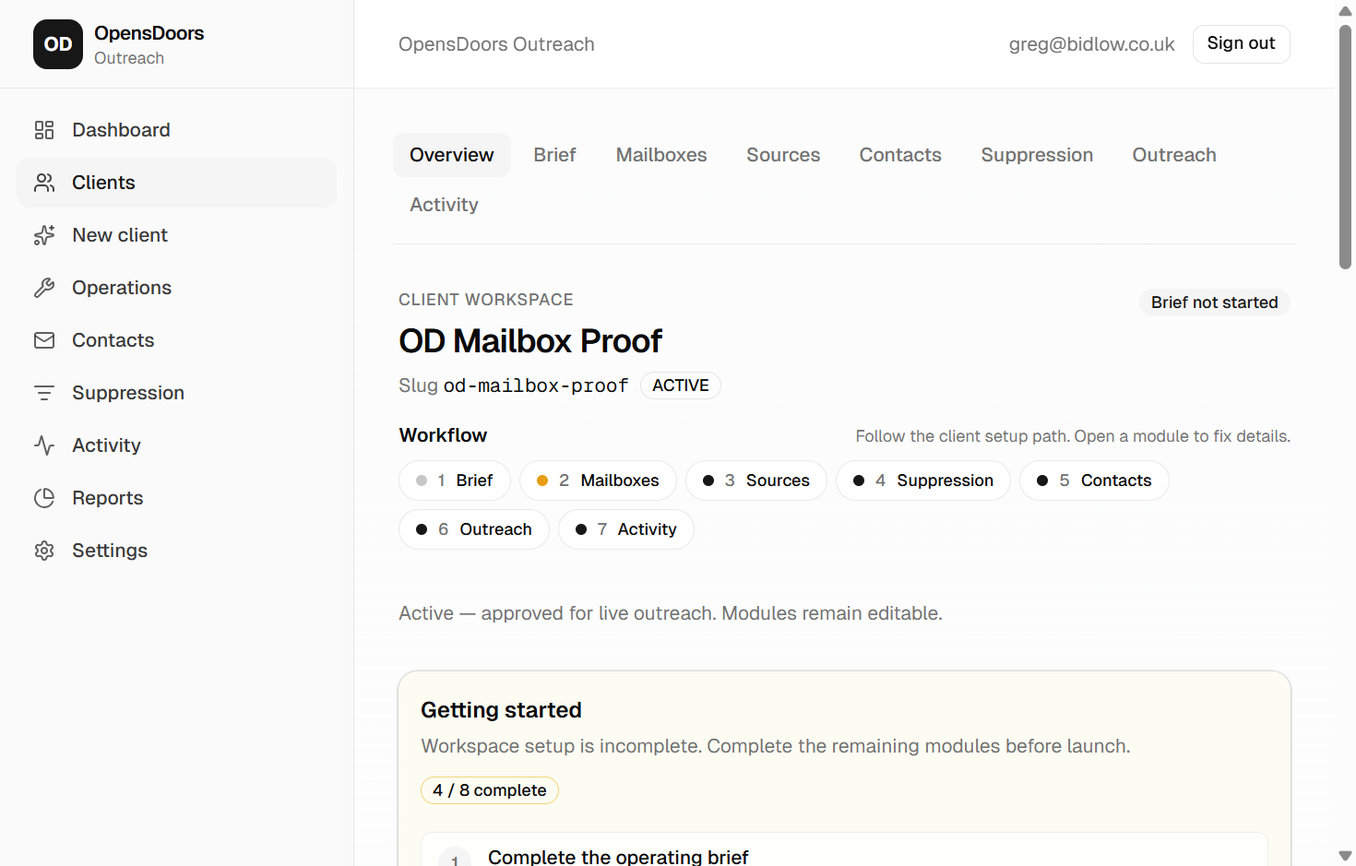
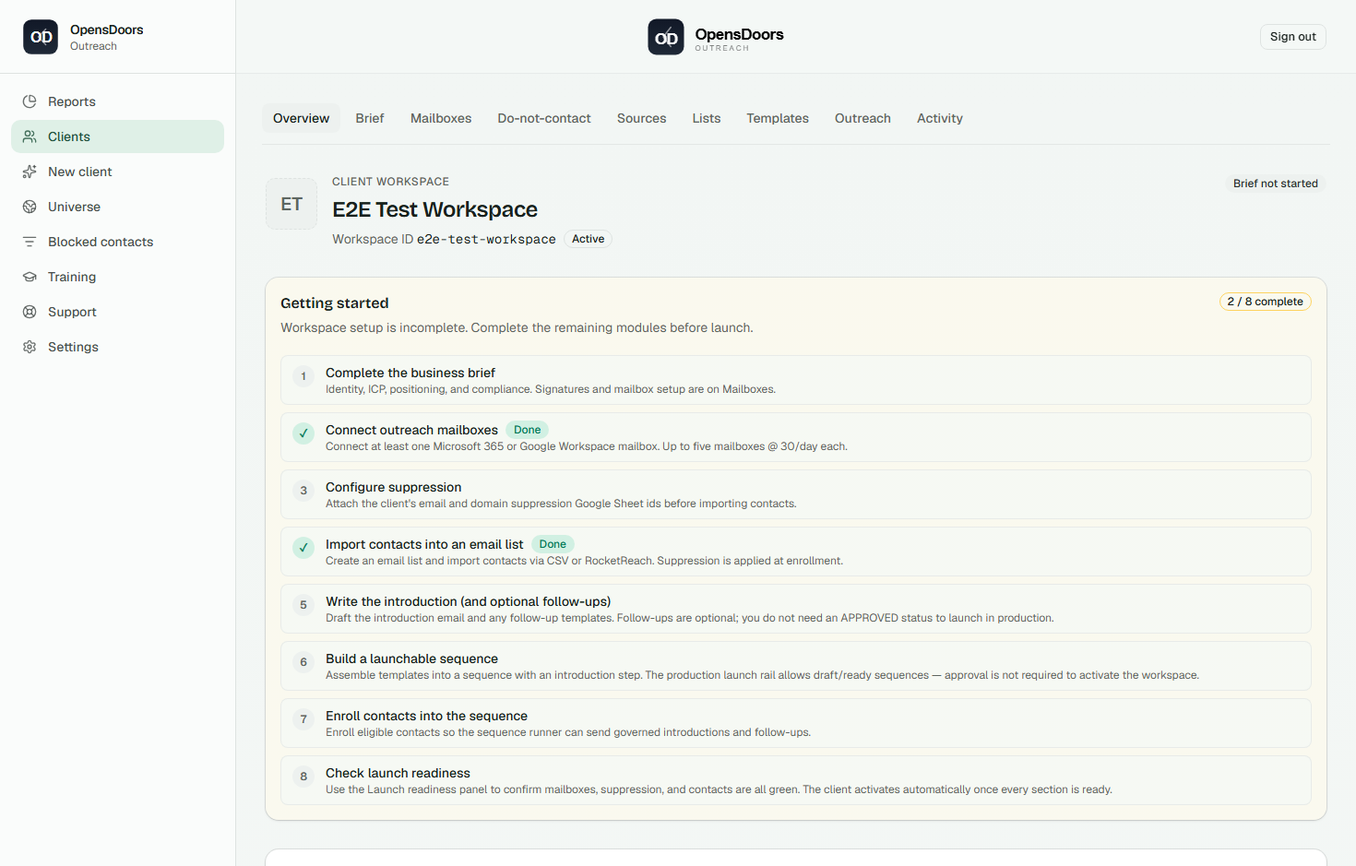
fix(training): stop teaching the workflow strip that PR #247 deleted
PR #247 removed the Overview's seven-step "workflow strip" and added a
policy test to keep it gone. The staff training was never updated in that
change, so it kept teaching new operators a control that is not on the
page - in Module 1's caption, steps and "what good looks like", and in the
Client-overview video script an admin would narrate aloud on camera.

The seven modules and their order are unchanged, because they are the
Launch readiness rows now; only the surface staff are pointed at moved.

The screenshot is replaced, not re-captioned. training-overview.png was
stale three ways - the deleted strip, a tab row reading "Contacts"/
"Suppression" that PR #138 renamed, and an obsolete sidebar. Alt text has
to describe the image, so no honest caption could be written over it.

Adds e2e/capture-training-screenshots.spec.ts so the capture is
reproducible rather than a hand-crop. It is skipped unless
CAPTURE_TRAINING_SCREENSHOTS=1: it writes committed source, and CI must
never silently rewrite a checked-in asset. The recaptured image was
reviewed by eye, which caught the caption promising a Launch readiness
panel that is actually below the fold.

The guard goes in client-overview-ui-policy.test.ts on purpose - the file
that removed the strip now also fails if the training names it, so the
removal and its documentation are locked together.

Also answers Q3 in CLIENT_WORKSPACE_MODULE_AUDIT.md, which still read
[…]

diff --git a/src/lib/training/modules.ts b/src/lib/training/modules.ts
@@ -198,9 +198,9 @@ const onboardingModule: TrainingModule = {
     },
     {
       src: "/training/training-overview.png",
-      alt: "Client workspace overview with the 7-step workflow strip and Getting started checklist",
+      alt: "Client workspace overview showing the module tab row, the workspace header, and the Getting started checklist",
       caption:
-        "Overview — the 7-step workflow strip and Getting started checklist. Every other module is one click from here.",
+        "Overview — where you land. The tab row along the top reaches every module; the Getting started checklist tracks what is still outstanding, and Launch readiness (checklist item 8) sits just below it. Captured against a test workspace, so the name differs from your client's.",
       width: FULL_W,
       height: FULL_H,
     },
@@ -224,17 +224,17 @@ const onboardingModule: TrainingModule = {
     {
       title: "Click Create workspace",
       detail:
-        "You land on the Overview. The workflow strip shows Brief → Mailboxes → Sources → Do-not-contact → Lists → Outreach → Activity. The client stays in ONBOARDING until every required step is complete.",
+        "You land on the Overview. Launch readiness lists the seven setup modules — Brief → Mailboxes → Sources → Do-not-contact → Lists → Outreach → Activity — each with its own status and a link into it. The client stays in ONBOARDING until every required step is complete.",
     },
     {
       title: "Bookmark the Overview",
       detail:
-        "The Overview is the control centre for this client. Every other module links back here via the breadcrumb and the workflow strip.",
+        "The Overview is the control centre for this client. Every other module is one click away on the tab row at the top, and Launch readiness links straight into whichever one still needs work.",
     },
   ],
   whatGoodLooksLike: [
     "The workspace appears in the Clients list with the correct name and slug.",
-    "Overview loads with the 7-step workflow strip visible and the Getting started checklist filled with pending items.",
+    "Overview loads with the Getting started checklist filled with pending items, and Launch readiness showing a status for all seven modules.",
     "Internal notes name the account manager (Samantha) and the main client contact (James Munro).",
     "The status pill on Overview reads ONBOARDING (or ACTIVE only after launch approval).",
   ],
@@ -1321,13 +1321,13 @@ export const STAFF_VIDEO_SCRIPTS: readonly StaffVideoScript[] = [
   {
     id: "client-overview",
     title: "Client overview",
-    subtitle: "Workflow strip, Getting started checklist, and where to go from here.",
+    subtitle: "Getting started checklist, Launch readiness, and where to go from here.",
     status: "to record",
     portalHref: "/clients",
     durationGuidance: "2 minutes",
     script: [
       "Open Clients, then open the OpensDoors test client.",
-      "Show the 7-step workflow strip: Brief → Mailboxes → Sources → Do-not-contact → Lists → Outreach → Activity.",
+      "Show Launch readiness: Brief → Mailboxes → Sources → Do-not-contact → Lists → Outreach → Activity, each with its own status pill.",
       "Explain that the status pill (ONBOARDING / ACTIVE) tells you whether the client is launchable.",
       "Click one tab (Brief) and explain that each tab is a self-contained module.",
       "Return to Overview and bookmark it as the control centre.",

diff --git a/e2e/capture-training-screenshots.spec.ts b/e2e/capture-training-screenshots.spec.ts
@@ -1,0 +1,77 @@
+/**
+ * Recapture the screenshots embedded in the operator training.
+ *
+ * WHY THIS EXISTS
+ *
+ * The training in `src/lib/training/modules.ts` is screenshot-led, and the
+ * images in `public/training/` were captured by hand in April. When PR #247
+ * deleted the Overview's seven-step "workflow strip", the code changed, the
+ * tests changed, and the picture did not — so the training kept showing new
+ * staff a control that is no longer on the page, next to a tab row using names
+ * ("Contacts", "Suppression") that PR #138 had already renamed.
+ *
+ * A hand-captured asset drifts silently because nothing re-renders it beside
+ * the UI it claims to show. This spec makes the capture reproducible, so the
+ * fix is "re-run it" rather than "find someone with a login and a cropping
+ * tool".
+ *
+ * NOT PART OF THE CI SUITE. It writes into `public/training/`, which is
+ * committed source, so it is skipped unless CAPTURE_TRAINING_SCREENSHOTS is
+ * set. CI must never silently rewrite a checked-in asset.
+ *
+ *   npm run build
+ *   CAPTURE_TRAINING_SCREENSHOTS=1 npx playwright test capture-training-screenshots
+ *
+ * Then review the PNG diff by eye before committing it — this replaces a
+ * picture staff are taught from, and no assertion can tell you it looks right.
+ *
+ * SEND SAFETY: navigation and screenshotting only. No form is submitted, and
+ * the app under test runs with every provider credential blanked (`e2e/env.ts`).
+ * The workspace photographed is the seeded E2E fixture, never a real client.
+ */
+import { mkdir } from "node:fs/promises";
+import path from "node:path";
+
+import { expect, test } from "@playwright/test";
+
+import { E2E_CLIENT, E2E_STORAGE_STATE } from "./fixtures";
+
+/**
+ * Matches the dimensions the committed screenshots already use — FULL_W/FULL_H
+ * in `modules.ts` are 1470×939, and those are declared to Next.js so the
+ * training page lays the images out without shift. Capturing at any other size
+ * would mean editing those constants too.
+ */
+const VIEWPORT = { width: 1470, height: 939 } as const;
+
+const TRAINING_IMAGE_DIR = "public/training";
+
+test.use({
+  storageState: E2E_STORAGE_STATE.superAdmin,
+  viewport: VIEWPORT,
+});
+
+test.describe("recapture training screenshots", () => {
+  test.skip(
+    !process.env.CAPTURE_TRAINING_SCREENSHOTS,
+    "Writes committed assets — set CAPTURE_TRAINING_SCREENSHOTS=1 to run.",
+  );
+
+  test("client workspace overview", async ({ page }) => {
+    await page.goto(`/clients/${E2E_CLIENT.id}`);
+
+    // Wait for the surfaces the training actually names, so we never
+    // photograph a half-rendered page and ship it as documentation.
+    // These are `CardTitle` divs, not headings — hence getByText, not getByRole.
+    await expect(page.getByText("Launch readiness", { exact: true })).toBeVisible();
+    await expect(page.getByText("Getting started", { exact: true })).toBeVisible();
+
+    // The point of the recapture: prove the deleted strip is not in the shot.
+    await expect(page.getByText("Client setup workflow")).toHaveCount(0);
+
+    await mkdir(TRAINING_IMAGE_DIR, { recursive: true });
+    await page.screenshot({
+      path: path.join(TRAINING_IMAGE_DIR, "training-overview.png"),
+    });
+  });
+});

diff --git a/src/app/(app)/clients/client-overview-ui-policy.test.ts b/src/app/(app)/clients/client-overview-ui-policy.test.ts
@@ -19,6 +19,10 @@ const launchStateSource = readFileSync(
   join(repoRoot, "src/lib/client-launch-state.ts"),
   "utf8",
 );
+const trainingModulesSource = readFileSync(
+  join(repoRoot, "src/lib/training/modules.ts"),
+  "utf8",
+);
 
 describe("client Overview UI policy (source)", () => {
   it("does not mount internal team or launch-approval panels", () => {
@@ -93,5 +97,39 @@ describe("the client Overview lists its destinations once", () => {
   it("keeps the two lists that earn their place", () => {
     expect(overviewPageSource).toContain("buildLaunchReadinessRows");
     expect(overviewPageSource).toContain("LaunchReadinessPanel");
+  });
+});
+
+/**
+ * THE TRAINING MUST DESCRIBE THE SCREEN THAT IS ACTUALLY THERE.
+ *
+ * Removing the strip (above) was only half the job. The staff training taught
+ * it BY NAME — "the 7-step workflow strip" — in Module 1's captions, steps and
+ * "what good looks like", and again in the Client overview video script. That
+ * copy shipped unchanged when the strip was deleted, so for a period the
+ * product told new staff to look for a thing that is not on the page.
+ *
+ * That is the failure this repository keeps repeating in other forms: a change
+ * lands, reports success, and the surface that is supposed to reflect it never
+ * moves. Training is a surface. It drifts silently because nothing renders it
+ * next to the UI it describes.
+ *
+ * So the removal and its documentation are locked together here, in one file.
+ * If someone re-adds the strip, the tests above fail. If someone removes
+ * another Overview element without updating what staff are told, this fails.
+ */
+describe("staff training matches the Overview that ships", () => {
+  it("does not teach the workflow strip that was removed", () => {
+    expect(trainingModulesSource).not.toMatch(/workflow strip/i);
+    expect(trainingModulesSource).not.toMatch(/7-step/i);
+  });
+
+  it("teaches the two Overview surfaces that do exist", () => {
+    // Named in the copy AND mounted by the page — checked on both sides so
+    // this cannot pass by agreeing with itself.
+    expect(trainingModulesSource).toContain("Launch readiness");
+    expect(overviewPageSource).toContain("Launch readiness");
+    expect(trainingModulesSource).toContain("Getting started");
+    expect(overviewPageSource).toContain("ClientGettingStartedCard");
   });
 });

diff --git a/src/lib/training/modules-staff-readiness.test.ts b/src/lib/training/modules-staff-readiness.test.ts
@@ -79,11 +79,16 @@ describe("Training content alignment (PR #139)", () => {
     expect(detail).not.toMatch(/\bEMAIL · SUCCESS\b/);
   });
 
-  it("Onboarding module workflow strip uses the post-PR-138 sub-nav names", () => {
+  it("Onboarding module names the seven modules via Launch readiness, not the deleted strip", () => {
+    // The seven and their order are unchanged — they are the Launch readiness
+    // rows now (`buildLaunchReadinessRows`), not the workflow strip that PR
+    // #247 deleted. Only the surface staff are pointed at moved.
     const m = getTrainingModule("onboarding");
     expect(m).not.toBeNull();
     const workflowStep = m!.steps.find((s) => s.title === "Click Create workspace");
     expect(workflowStep?.detail).toContain("Brief → Mailboxes → Sources → Do-not-contact → Lists → Outreach → Activity");
+    expect(workflowStep?.detail).toContain("Launch readiness");
+    expect(workflowStep?.detail).not.toMatch(/workflow strip/i);
   });
 
   it("Mailboxes module no longer carries 'authorised operator' dev jargon (PR #117 superseded)", () => {

diff --git a/.bidlow/relay/QUEUE.md b/.bidlow/relay/QUEUE.md
@@ -189,11 +189,12 @@ and makes both live.
 | 12 | **UNTRACKED AND UNCOMMITTED FILES IN THE WORKING TREE. THIS HAS ALREADY COST REAL WORK ONCE TODAY - DO IT BEFORE ANYTHING ELSE THAT IS NOT ROW 9.** On 2026-08-27 the promoted ASK answers in `.bidlow/BLUEPRINT.json` and the 21 CLASSIFY answers in `.bidlow/CLASSIFY.json` were WIPED by a rebase, because they had only ever been written to the working tree and never committed. The deck showed ASK and CLASSIFY green at 06:50 and amber again by 08:58, with nobody having changed anything on purpose. Both files have been re-entered by hand and copies are parked in `C:\Bidlowprojects\_bidlow-safe\2026-08-27\`. ALSO UNTRACKED and load-bearing: `.bidlow/COVERAGE.json` and `.bidlow/DATAMODEL.json` are the ONLY reason PLAN reads green - lose them and PLAN silently goes back to "not started" in front of a customer; `.bidlow/relay/PROVE-CLOSE-OUT.md` is the brief for row 9; `relay-status.cmd` and `relay-status.mjs` were already lost this way once. **Before you commit, DIFF each file against the copy in `_bidlow-safe` and restore from there if the tree has reverted it again - do not rewrite them from scratch, and do not assume what is on disk is the newest.** One branch, PR, green CI, merge. Then delete the safe folder. **CYCLE 45: DONE.** All 11 load-bearing files were DIFFED against `_bidlow-safe/2026-08-27` before anything was staged - every one was identical to the safe copy or strictly NEWER (`PROVE-CLOSE-OUT.md` had gained the cycle-43 closure, `relay-watch.ps1` the mid-run orphan fix), so the tree had NOT reverted again and nothing was restored over. The 7 untracked ones (`COVERAGE.json`, `DATAMODEL.json`, `PROVE-CLOSE-OUT.md`, `RESTART-REQUIRED.md`, `relay-start.cmd`, `relay-status.cmd`, `relay-status.mjs`) are now committed, along with the pending edits to BLUEPRINT/CLASSIFY/relay-watch. NEW GUARD `relay/tracked-artefacts.test.ts` fails if any of the 11 is not tracked by git - PROVEN TO FIRE, not merely present: red 7-of-12 before staging naming the 7 real files, and untracking `COVERAGE.json` again turned exactly 1 test red before re-adding returned 12/12. It asserts TRACKED, deliberately not "no uncommitted changes", which would go red mid-edit and get ignored. `.gitignore` now swallows the generated `relay-status.html` and the `*.bak*` scratch so a real untracked artefact stands out instead of hiding among twenty backups (`git check-ignore` confirms no load-bearing file is matched). Note found in passing: `.bidlow/DATAMODEL.json.bak` was tracked while the real `DATAMODEL.json` beside it was not - the whole failure in one line. Safe folder deleted after merge. | DONE 45 |
 | 5 | **Reply claiming** â€” Part 2 of `ALERTS-AND-CLAIMING.md`. Advisory not a lock; 30-minute staleness. **BUILT IN CYCLE 8 â€” the "never started" this row used to say was WRONG, and that error cost the whole of cycle 10.** Cycle 8 wrote `DONE 8` into this row *on the feature branch*, which is unmerged; the relay reads `main`; so the relay re-dispatched an item that was already finished, and would have done so every cycle forever. See standing finding (10). **The feature is complete and PR #231 is open, green, and now rebased onto current `main`.** Cycle 10 stripped the two doc files off that branch so #231 is now NOTHING but the feature and its migration â€” one decision, not three. Gates re-run by cycle 10 on the merged tree: lint **0 errors**, typecheck **clean**, unit **2334 passed** (main's 2299 + this branch's 35), integration **100 passed against real Postgres**. **PROVEN TO FIRE, by sabotage, not by a green tick** â€” cycle 8's green run only proved the code passes, not that the tests can fail, which is exactly the vacuity that bit cycle 9. Four deliberate breaks: (a) let a viewer see their own claim â†’ integration RED against a real database; (b) make `releaseReplyClaims` a no-op so acting never clears the marker â†’ integration RED in two places; (c) delete `<ReplyClaimNotice>` from the linked-reply page â†’ the wiring test RED, and that test reads the PAGE SOURCE, not the spec, so it is not the vacuous kind; (d) make a claim never go stale â†’ integration stayed GREEN, but the unit suite went RED twice, including a test named "drops a stale row even if the database hands one back". (d) is correct layering, not a gap: staleness is filtered in SQL *and* in `selectVisibleClaim`, and both layers are independently tested. **NOT MERGED, and that is deliberate â€” it is the one thing here that is genuinely Greg's.** Merging runs DDL on the live client database (`PRODUCTION_PRISMA_MIGRATE` is true). The migration is as safe as a migration gets â€” ONE new table, ONE new enum, **zero ALTERs on any existing table**, nothing existing read or rewritten, and dropping the table restores today's behaviour exactly. CI already applied it to a clean Postgres and ran the feature against it (`reply-claim.integration.test.ts`, 6 tests, run `32956843118`). Nothing reads `ReplyClaim` for sending, suppression or governance â€” an empty or stale table degrades to "say nothing", never to a wrong send. **Residual risk cycle 10 could NOT check: whether production's migration history has drifted**, which is the only realistic way `migrate deploy` fails; that needs prod credentials. **Greg: press merge on #231 when you want it live.** | DONE 38 - **CYCLE 38 FOUND GREG'S MERGE BUTTON BROKEN AND FIXED IT.** Everything this row says above was true when cycle 10 wrote it and had stopped being true by the next morning: #231 was **36 commits behind `main` and `mergeable: CONFLICTING`**. Pressing merge would have failed. That is the honest lesson of this cycle - **an unmerged PR is not a finished thing that waits patiently; it rots, and this one rotted in ONE DAY.** (1) **One conflict, in `src/server/suppression/family-proposal-schema.test.ts`** - the branch and `main` had *independently* rewritten the same "is this the NEWEST migration" test into an ordering test, because it was a tripwire that fired on every unrelated migration. Resolved to `main`'s version; the branch's extra assertion ("strictly increasing, unique timestamps") was **dropped as vacuous** - it sorted the array and then asserted the array was sorted, so it could not fail. The net diff against `main` is now byte-identical to `main` for that file. (2) **Migration renamed `20260826120000_reply_claims` -> `20260827170000_reply_claims`.** While this branch sat, `main` shipped TWO migrations dated 2026-08-27 that are **already applied to production**, so the branch's migration had quietly become *back-dated behind applied history*. It is now the newest again and nothing is inserted before what prod has already run. (3) **Gates re-run on the MERGED tree, locally**: lint **0**, typecheck **clean**, unit **2632 passed / 268 files**. **CI run `33048563389` green** on the merged head: `verify` 268 files, E2E pass, and the integration job applied **all 44 migrations to a clean Postgres - including `reply_claims` in its new position** - then ran `reply-claim.integration.test.ts`, **6 tests, green**. `mergeable` is now **CLEAN**. (4) **Re-proved by sabotage on the merged tree, not on cycle 10's tree** - a green tick on a tree nobody has broken proves nothing: replacing `<ReplyClaimNotice>` in the linked-reply page turned the wiring test **RED**; setting `REPLY_CLAIM_STALE_AFTER_MS` to `MAX_SAFE_INTEGER` turned **4 unit tests RED**, including "drops a stale row even if the database hands one back". Both reverted, green again. (5) **THE RESIDUAL RISK CYCLE 10 COULD NOT CHECK IS NOW RETIRED, and it needed no prod credentials - only the deploy log.** Deploy run `33047344155` (2026-08-27 06:51Z, commit `a0e15d2`) ran `prisma migrate deploy` **against the real production database** and reported "**43 migrations found in prisma/migrations**" / "**No pending migrations to apply**". 43 is exactly `main`'s count, and a divergent or half-failed history raises **P3009** there rather than saying that. **Production's migration history has NOT drifted.** After merging #231 there will be exactly **ONE** pending migration. (6) **One correction to this row's own wording above**: it claims "zero ALTERs on any existing table". The migration does contain two `ALTER TABLE` statements - both on the **new** table, adding foreign keys to `Client` and `StaffUser`. Creating those FKs takes a brief lock on the referenced tables. Milliseconds against an empty table, and the point stands, but it is not literally zero and this row should not have said so. **STILL GREG'S, and still the only thing outstanding: press merge on #231.** If it is not merged it will drift again and need this treatment a third time. |
 | 6 | **DESIGN.json** â€” third PLAN artefact. **Written, and made load-bearing.** Direction proposed without waiting to be told one: **"Ledger & Rail"** â€” an outreach console is a record of things that have left the building and cannot be recalled, so it should read like a well-kept ledger, and anything that can leave the building should be visibly marked as such. Three principles (consequence is drawn not just confirmed Â· a record not a dashboard Â· calm chrome, loud state), full token set for both themes, typography, elevation and motion rules, six signature elements each carrying an HONEST build status, ten anti-goals, and WCAG 2.2 AA with all eleven success criteria named â€” including the four that are NEW in 2.2 (2.4.11, 2.5.7, 2.5.8, 3.3.8), which is the difference between claiming 2.2 and actually meaning it. Plain-English companion at `docs/DESIGN.md`. **The artefact is ENFORCED, not filed:** `src/lib/design/design-system.test.ts` (55 tests) reads `DESIGN.json` and the real `globals.css` and fails the build on drift in EITHER direction, on any declared contrast pair dropping below AA, on a violet/indigo hue, on pure black on pure white, or on a button below the 24px target minimum. Contrast is computed properly â€” new `src/lib/design/oklch.ts` (19 tests) does OKLCHâ†’OKLabâ†’LMSâ†’linear sRGB with an in-gamut clip, because OKLCH lightness is NOT WCAG luminance and a gate comparing `L` values would wave failures through; verified against two independent known answers (black/white = exactly 21:1, and #ff0000 recovers luminance 0.21260, the WCAG red coefficient by definition). **PROVEN TO FIRE, twice over.** First on real ground: written BEFORE any fix, it went red on **five genuine pre-existing WCAG 2.2 AA failures that were already live** â€” `--input` at **1.21:1** against a required 3:1 (and it is the SOLE identifier of every text field, textarea and select, which are all `bg-transparent`, so form fields were near-invisible), and `--destructive` text at **4.44:1** against a required 4.5. Both fixed by token value; 34 `border-input` call sites across 15 files fixed by one line. Then by deliberate sabotage: **all five arms were broken on purpose and watched fire** â€” a drifted colour, an undeclared colour, a violet colour, a 20px button, pure black on white. **That exercise found a real defect IN THE GATE**: the violet and pure-black checks read `DESIGN.json` instead of the stylesheet, so they compared the document against itself and could never have caught a violet in the shipped CSS. Fixed and re-proven. **That is the ninth instance of this project's worst defect class, and it was in the gate written to prevent the ninth.** **DELIBERATELY NOT DONE, and this matters: the two signature elements that actually stop it looking generic â€” the send rail and live/dry banding â€” are SPECIFIED, NOT BUILT.** Nothing in the app looks different today except the two colour fixes. They are blocked behind item 7, which moves the surfaces they attach to. Three further real defects found, measured and left with their numbers in `open_defects` rather than rushed: the destructive BUTTON still fails at **3.72:1** (its label sits on a tint of its own colour â€” needs a solid-red variant, a component change), two chart series at **2.51/2.39** against 3:1 in light mode (the naive darkening collides chart-4 with chart-1, so it needs a real palette pass), and the inherited in-flow card/tab shadows. Gates: lint 0 errors, typecheck clean, **2299 tests green** (main's 2225 + 74 new), build compiled. **MERGED as #232, commit `fd97441`, DEPLOYED and VERIFIED LIVE** â€” `/api/build-info` on the DIRECT App Service URL returns `fd97441b64a48f076f32e780d51c806b97c5aeec`, and the served stylesheet carries `--input:oklch(62% .013 165)` / `oklch(53% .013 165)` and `--destructive:oklch(55% .245 27.325)` with **zero** occurrences of the old values. The accessibility fix is in front of real users, not merely built. (Correction: an earlier draft of this row said 2334 â€” that figure was measured on `feat/reply-claiming`, which carries its own 35 tests. Off `main` the number is 2299.) | DONE 9 |
-| 7 | **UI consolidation** â€” PR #196, held because staff training names the old layout with screenshots. Update the training in the same change. | TODO |
+| 7 | **UI consolidation** - PR #196, held because staff training names the old layout with screenshots. Update the training in the same change. **THIS ROW WAS WRONG AND CYCLE 46 CORRECTED IT RATHER THAN WORKING AROUND IT.** PR #196's CODE was never held - it had ALREADY SHIPPED, by a different route, in PR #247 (`96849b2`), which deleted `client-workflow-strip.tsx`, `buildClientWorkflowSteps`, `ClientWorkflowStep`, `WorkflowStepStatus` and `stepStatus`, and added `client-overview-ui-policy.test.ts` to keep them gone. What was never done is the HALF THIS ROW NAMES: **the training was not updated in that change.** So the live defect was the mirror image of the brief - the UI shipped, and the training kept teaching a control that is not on the page. **That is the seventh instance, inverted:** not something built that never fired, but something REMOVED whose documentation never moved. Nothing renders training beside the UI it describes, so it drifted in silence. **FIXED:** 7 stale references in `src/lib/training/modules.ts` (Module 1 caption/alt, the "Click Create workspace" and "Bookmark the Overview" steps, "what good looks like", and the Client-overview VIDEO SCRIPT's subtitle + first line, which would have had an admin narrate the strip aloud on camera). The seven modules and their ORDER were kept verbatim - `Brief -> Mailboxes -> Sources -> Do-not-contact -> Lists -> Outreach -> Activity` is still exactly right, because those are the `buildLaunchReadinessRows` rows now; only the surface staff are pointed at changed. **THE SCREENSHOT WAS REPLACED, NOT RE-CAPTIONED.** `public/training/training-overview.png` was stale in THREE independent ways, and I confirmed each by opening the image: (a) it showed the deleted Workflow strip, (b) its tab row read "Contacts"/"Suppression", renamed by PR #138 to "Lists"/"Do-not-contact", (c) its sidebar read Dashboard/Operations/Contacts/Suppression against a live Reports/Universe/Blocked contacts/Training/Support. Alt text must describe the IMAGE, so no honest caption could have been written over it. New `e2e/capture-training-screenshots.spec.ts` recaptures it from the running app at the same 1470x939 the other shots use; it is SKIPPED unless `CAPTURE_TRAINING_SCREENSHOTS=1`, because it writes committed source and CI must never silently rewrite a checked-in asset. The recaptured image was REVIEWED BY EYE, which caught the caption overclaiming: Launch readiness sits BELOW the fold, so the caption now says so instead of promising a panel the picture does not contain. **RED-FIRST, AND ONE ARM PROVEN BY SABOTAGE.** The guard lives in `client-overview-ui-policy.test.ts` - the same file that removed the strip now also fails if the training names it, so removal and documentation are locked together. Arm 1 went red on real ground before any copy was touched (`/workflow strip/i`, 8 passed 1 failed), and stayed red through the prose fix until the screenshot caption was fixed too - it held me to the one thing I had deferred. Arm 2 ("teaches the two surfaces that DO exist", asserted on BOTH the training copy and `page.tsx` so it cannot pass by agreeing with itself) had only ever been green, so it was broken on purpose: renaming the Overview's `<CardTitle>Launch readiness</CardTitle>` turned it RED, reverted green. **The first sabotage attempt was itself vacuous and is worth recording** - renaming to "Launch readinesss" left the test GREEN, because `toContain("Launch readiness")` is still satisfied by the substring. A bad sabotage looks exactly like a robust test. Q3 in `docs/ops/CLIENT_WORKSPACE_MODULE_AUDIT.md` is now **Answered** (it went away entirely, with the reasoning and the test that locks it) rather than "Open - deferred; strip stays as in-page nav", which reality had already contradicted; the two `workflow strip` references in `docs/ops/STAFF_HANDOVER_SMOKE_TEST.md` are gone, including one telling staff to read a status pill off it. PR #196 was CLOSED, not merged - its diff is superseded and it was 82 commits behind. Gates on the merged tree: lint **0**, typecheck **clean**, **2694 tests / 275 files green**. NO schema, NO send path, NO client data - copy, docs, tests and one image. | DONE 46 |
 | 8 | **ASK's seven.** Two are already answered in DATAMODEL.json and need carrying across (`entities`, `not_handling`). One is trivial (`access_level` = async). Three are real discovery gaps: three real cases traced end to end, frequency counts, an exception register. | TODO |
 | 11 | **The cycle logs are written in the wrong encoding.** Every em-dash arrives as `Ã”Ã‡Ã¶`/`Ã¢â‚¬"`, so the plain-English record Greg is meant to read is corrupted. Fix it at the source in `relay-watch.ps1` â€” write UTF-8 explicitly (`Set-Content -Encoding UTF8`, and check `Out-File` calls too) â€” and repair the existing logs. `relay-status.mjs` currently patches the symptom; that workaround should become unnecessary, not permanent. | DONE (Claude, out of band, 2026-08-27) - ROOT CAUSE FOUND AND FIXED in `relay-watch.ps1`. Four `Get-Content` calls read UTF-8 files with NO `-Encoding` flag, so Windows PowerShell 5.1 decoded them as the ANSI code page and `Set-Content -Encoding utf8` wrote the mangled characters straight back - every cycle that touched QUEUE.md re-mangled the whole file, which is why the garbage compounds. Mechanical proof: U+00B7 is C2 B7 in UTF-8, which is exactly the two cp1252 characters seen in the file; U+2014 is E2 80 94, which is the three seen around every dash. Fixed at lines 179 (STATUS.json), 754 and 796 (QUEUE.md), 1318 (CURRENT.md). TAKES EFFECT ON THE NEXT RELAY RESTART - PowerShell reads the script once. STILL OWED, and only AFTER that restart: repair the already-damaged QUEUE.md and log/*.md with `ftfy`, then drop the symptom patch in `relay-status.mjs`. |
 | 34 | **A FLAKY E2E TEST APPEARED ON THE PREFETCH PR AND IT IS AN AMBIGUOUS LOCATOR, NOT A TIMING BUG.** Found by cycle 28 on PR #263. `e2e/journeys.spec.ts:47` asserts `getByText("Routing")` with no `.first()`, and in CI it hit a strict-mode violation: the locator resolved to TWO identical `card-title` divs. The source has only ONE `<CardTitle>Routing</CardTitle>` (`src/app/(app)/activity/outbound/[id]/page.tsx:55`), so the page is transiently rendering twice during streaming and the assertion caught the overlap. It failed attempt 1 and passed retry 1, so CI was green (60 passed, 1 flaky) and it would be easy to never look at. The same test passed first-try on the previous three `main` runs, so cycle 28 removing prefetch (which changes render timing) is a PLAUSIBLE but UNPROVEN trigger - do not assume it, reproduce it. To do: reproduce by running that spec in a loop, decide whether the double render is a real defect on the outbound-detail page or only a test-harness artefact, and fix the cause rather than adding `.first()` to silence it. NOTE `e2e/journeys.spec.ts` is FROZEN, so changing it needs an amendment entry in `.bidlow/FROZEN.json`. **SECOND SAMPLE, same code, next CI run (33031934872): 61 passed, ZERO flaky - it did NOT recur.** So it is 1 occurrence in 2 runs of the identical tree, which makes the prefetch link weaker still and points at ordinary CI-runner timing. Do not spend a cycle on this unless it returns. | TODO |
 | 35 | **`main` IS INTERMITTENTLY RED FROM POWERSHELL-TEST TIMEOUTS, AND A CI THAT IS RED FOR NO REASON TRAINS PEOPLE TO IGNORE IT.** Found by cycle 45 while merging row 12, not looked for. Commit `2de37ff` (cycle 44, already on `main`) FAILED CI: `relay/queue-parser.test.ts` had 2 tests exceed vitest's 5000ms default — including "reads the real status when the status cell itself contains a pipe" — with `Test timed out in 5000ms`, NOT an assertion failure. The very next commit (`14e8e1d`, cycle 45) ran the same tests GREEN on the same runner, so this is flakiness, not broken logic. CAUSE is almost certainly cost, not correctness: `queue-parser.test.ts` and `gate-switch.test.ts` shell out to a REAL PowerShell host per assertion, twice over (`pwsh` AND `powershell`), and each spawn costs ~0.5s locally — on a cold Linux runner `pwsh` startup can exceed 5s on its own. FIX is a per-suite `testTimeout` on the two relay specs that drive PowerShell (they are the only ones paying process-spawn cost), NOT a global timeout bump, which would hide genuinely hung tests everywhere else. Do NOT "fix" this by deleting or skipping the PowerShell-driving tests — they exist because a passing test beside an unfixed script is this repo's worst recorded defect, and they caught a parser bug that cost an overnight cycle. Verify the fix by re-running the suite on CI, not locally, since the timeout only reproduces on the runner. | TODO |
+| 36 | **THE REST OF THE TRAINING SCREENSHOTS ARE STALE, AND STAFF ARE BEING TAUGHT FROM THEM.** Found by cycle 46 while replacing ONE of them. All 16 images in `public/training/` were hand-captured in April (`92c1914`) and nothing has re-captured them since, so they have drifted exactly as `training-overview.png` had. **CONFIRMED, not suspected, on two of them by opening the files:** `training-overview.png` showed the deleted Workflow strip, a "Contacts"/"Suppression" tab row that PR #138 renamed to "Lists"/"Do-not-contact", and an obsolete sidebar - it has been recaptured. `training-sidebar.png` is STILL STALE and is the worst of them, because the sidebar is on every screen: it shows **Dashboard / Clients / New client / Operations / Contacts / Suppression / Activity / Reports / Settings** with **Dashboard highlighted as the landing page**, against a live **Reports / Clients / New client / Universe / Blocked contacts / Training / Support / Settings** where **Reports is the landing page**. Four labels wrong, two entries missing (Universe, Training), and the page it tells a new operator they land on is not the page they land on. The other 14 are UNVERIFIED - assume drifted until opened, and note the `alt`/`caption` text may be wrong in the same way, since a caption is only checked against the image by a human looking at both. **The tool already exists**: `e2e/capture-training-screenshots.spec.ts` (added by cycle 46) recaptures from the running app at the standard 1470x939, gated behind `CAPTURE_TRAINING_SCREENSHOTS=1` so CI never rewrites committed assets - add one `test()` per image and run `npm run build` then `CAPTURE_TRAINING_SCREENSHOTS=1 npx playwright test capture-training-screenshots`. **REVIEW EVERY RECAPTURED IMAGE BY EYE before committing, and re-read its caption against it** - that is what caught cycle 46's caption promising a Launch readiness panel that was below the fold and not in the shot. Note the captures come from the seeded E2E workspace, so the client name reads "E2E Test Workspace" rather than the OpensDoors worked example; cycle 46 handled that by saying so in the caption. Worth considering a cheaper standing guard than re-screenshotting: nothing today can tell you an image has gone stale, which is the whole reason this sat unnoticed from PR #138 and #247 until now. | TODO |
 
 ## Standing findings â€” do not re-derive these
 

diff --git a/docs/ops/CLIENT_WORKSPACE_MODULE_AUDIT.md b/docs/ops/CLIENT_WORKSPACE_MODULE_AUDIT.md
@@ -548,8 +548,18 @@ remain open for a future pass; they are not blockers for the PR sequence in
   of operational actions live there (e.g. “Sync suppression”, “Queue pilot”)?
   **Open** — deferred.
 - Q3. Should the workflow strip stay, become a breadcrumb-style progress
-  indicator, or go away entirely now that readiness rows exist? **Open** —
-  deferred; strip stays as in-page nav.
+  indicator, or go away entirely now that readiness rows exist?
+  **Answered — it went away entirely.** Shipped in PR #247 (`96849b2`), which
+  deleted `ClientWorkflowStrip`, `buildClientWorkflowSteps` and `stepStatus`.
+  The reasoning: the strip listed the same seven destinations the tab row
+  already linked and the Launch readiness rows already scored, so the Overview
+  offered one list of destinations three times. The strip was the weakest of
+  the three — a coloured dot whose meaning existed only in a screen-reader
+  string, against readiness rows that carry a status pill, a metric and the
+  same link. Nothing was lost with it.
+  The decision is locked by `client-overview-ui-policy.test.ts`, which fails if
+  the strip, its builder or its types come back — **and, since the training
+  fix, if the staff training starts naming it again.**
 
 ### Brief
 - Q4. What fields are **mandatory before a client can launch**?

diff --git a/docs/ops/STAFF_HANDOVER_SMOKE_TEST.md b/docs/ops/STAFF_HANDOVER_SMOKE_TEST.md
@@ -46,8 +46,8 @@ If you see "Staff access" / "Inactive" / "Email blocked", stop and contact Greg.
 2. Pick a client (e.g. **OpensDoors**).
 3. You land on the client **Overview**.
 
-**Expected:** Client name, status badge, workflow strip, getting-started card,
-launch readiness, operational snapshot.
+**Expected:** Client name, status badge, getting-started card, launch
+readiness, operational snapshot.
 
 (Pre-#135 there was a duplicate "Workspace status" card here — that is
 removed in #135.)
@@ -336,7 +336,7 @@ The audit programme commits to the following end-to-end checklist for
 the first staff-led campaign run without developer presence.
 
 1. **Create or check the client.** Open Clients, open the target
-   workspace, confirm the workflow strip shows the right status pill
+   workspace, confirm the workspace header shows the right status pill
    (ONBOARDING vs ACTIVE).
 2. **Connect mailboxes.** Mailboxes tab. Confirm at least one
    mailbox is **Connected**; do not touch Connect / Reconnect /
